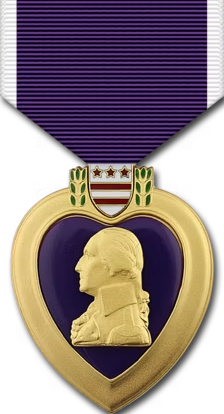
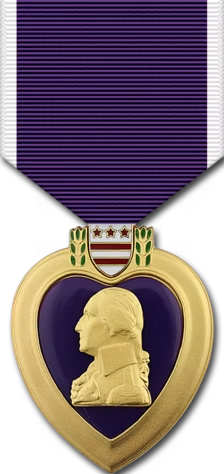
Put the ribbon back: the drape stays 224x474
Reverts this morning's 60-row crop and the tool that made it. The artwork is
drawn at 224x474; fitting it to a 414 canvas at the medal's own size cuts
away most of the ribbon, and the drop looks wrong long before the medal
looks big.

Nothing is lost by reverting, because the crop was never what enlarged the
medals. The coat sizes a medal by its width, so a shorter drape only makes
the rack more compact - the middle panel of the comparison had the same
medals at the same size as the original. The 29% width was doing all of the
work on its own.

So the drape goes back and the larger medals stay. The row pull is
re-derived for the height it actually has now, 0.484 of 61.37%, and the
Air Force rack is hung 5.4% of the coat lower: it grew about 13% of its own
width taller and, hanging from its bottom edge, had climbed into the
aviator badge.

The base, naval and Marine rules are back to their original figures
untouched, and no medal artwork is changed.

There were two usaf full-dress rules for the rack's bottom, the second one
winning; the figure is changed in that one rather than a third being added.

diff --git a/korea_service_record/static/css/detail.css b/korea_service_record/static/css/detail.css
@@ -277,7 +277,7 @@ table.roster td.award-cell { white-space: normal; }
 .tunic.full .tunic-right { bottom: 31.4%; }
 .medal-group { width: 100%; display: flex; flex-direction: column; align-items: center; }
 .medal-row { position: relative; display: flex; justify-content: center; width: 100%; }
-.medal-row + .medal-row { margin-top: -22.36%; }
+.medal-row + .medal-row { margin-top: -25.6%; }
 .medal { position: relative; width: 25%; height: auto; display: block; filter: drop-shadow(0 2px 2px rgba(0, 0, 0, 0.5)); }
 /* Naval mounting (docs/NAVY_RACK.md 5-7, 10-11, 16). Every medal keeps its
    size; a row of four or five is fitted by moving the medals closer, not by
@@ -303,23 +303,20 @@ table.roster td.award-cell { white-space: normal; }
 /* The Air Force mounts three medals to a row like the Navy, but with its
    own overlap once a row runs wider: a third of a medal at four, a half at
    five, which is the 50% the regulation calls the limit. */
-/* The drape is 224x414 - the ribbon was shortened at the bar so the medal
-   is a larger share of it - which makes a medal 1.848 times its width tall
-   rather than 2.116. Every row pull above is that same fraction of the new
-   height, so the rows show as much of each other as they always did.
-
-   Against the shortened drape the Air Force rack still read small, so its
-   medals are drawn at 29% of the container rather than 25%. The spacing is
-   the same geometry put through the larger medal: a third of one at four to
-   a row, a half at five, and a row pull of 0.484 of the new 53.6% height. */
+/* The Air Force rack read small, so in full dress its medals are drawn at
+   29% of the container rather than 25%. Shortening the ribbon instead does
+   nothing for this: the coat sizes a medal by its width, so a shorter drape
+   only makes the rack more compact. The spacing is the same geometry put
+   through the larger medal - a third of one at four to a row, a half at
+   five - and the row pull is the base 0.484 of its 61.37% height. */
 .tunic[data-coat="usaf"].full .medal { width: 29%; }
 .tunic[data-coat="usaf"] .medal-row.n4 .medal + .medal { margin-left: -9.667%; }
 .tunic[data-coat="usaf"] .medal-row.n5 .medal + .medal { margin-left: -14.5%; }
-.tunic[data-coat="usaf"].full .medal-row + .medal-row { margin-top: -25.94%; }
-.tunic[data-coat="usmc"] .medal-row + .medal-row { margin-top: -23.89%; }
-/* 50.83% of the container tall at the larger size on the shortened drape,
-   less the 48.3% of it the next row shows. */
-.tunic[data-coat="usnavy"] .medal-row + .medal-row { margin-top: -26.28%; }
+.tunic[data-coat="usaf"].full .medal-row + .medal-row { margin-top: -29.7%; }
+.tunic[data-coat="usmc"] .medal-row + .medal-row { margin-top: -27.35%; }
+/* 58.19% of the container tall at the larger size, less the 48.3% of it the
+   next row shows. */
+.tunic[data-coat="usnavy"] .medal-row + .medal-row { margin-top: -30.09%; }
 /* On the tie below the knot, the bow largely behind the collar points. */
 .tunic-neck { position: absolute; left: 46.5%; top: 0; width: 23%; transform: translateX(-50%); }
 .tunic-neck:empty { display: none; }
@@ -334,7 +331,10 @@ table.roster td.award-cell { white-space: normal; }
    medals end at 72.69%. Rank rides the shoulder loops and the Medal of
    Honor's art is a full-canvas overlay, as on the naval coats. */
 .tunic[data-coat="usaf"] .tunic-right { left: 76.65%; bottom: 49.51%; }
-.tunic[data-coat="usaf"].full .tunic-right { bottom: 27.31%; }
+/* The larger medals make the rack about 13% of its own width taller, and it
+   hangs from its bottom edge, so it grew up into the aviator badge. Hung
+   that much lower - 5.4% of the coat's height - to clear it again. */
+.tunic[data-coat="usaf"].full .tunic-right { bottom: 21.9%; }
 .tunic[data-coat="usaf"] .tunic-neck { inset: 0; width: 100%; transform: none; }
 .tunic[data-coat="usaf"] .tunic-neck, .tunic[data-coat="usaf"] .neck-medal { pointer-events: none; }
 .tunic[data-coat="usaf"] .neck-hotspot { display: block; position: absolute; pointer-events: auto;

diff --git a/korea_service_record/medals.py b/korea_service_record/medals.py
@@ -30,17 +30,16 @@ logger = logging.getLogger(__name__)
 
 ART = Path(__file__).resolve().parent / "static" / "images" / "medals"
 # Bump whenever the composition or the art changes; it is part of the URLs.
-REVISION = 24
+REVISION = 25
 
 # --- US: drawn art -----------------------------------------------------------
 # Every base medal is drawn 224 px wide - the drape is 1 3/8 inch, the same
 # width as a ribbon bar, so a device is simply the bar's device at 224/440 -
-# and 414 px tall, the top of the drape at the top edge. The straight part of
-# the drape runs 125 px before it tapers to the suspension ring; devices are
-# centred on that. Both were 60 px longer until the ribbon was shortened at
-# the bar so the medal would read larger on the coat.
-DRAPE = (224, 414)
-DRAPE_LENGTH = 125
+# and 474 px tall, the top of the drape at the top edge. The straight part of
+# the drape runs 185 px before it tapers to the suspension ring; devices are
+# centred on that.
+DRAPE = (224, 474)
+DRAPE_LENGTH = 185
 DEVICE_SCALE = DRAPE[0] / ribbons.BAR[0]
 # A cluster on the suspension ribbon is the 13/32" one, not the bar's 5/16"
 # (DEVICE_RULES.md 2); stars are the same size on both. Four clusters go
